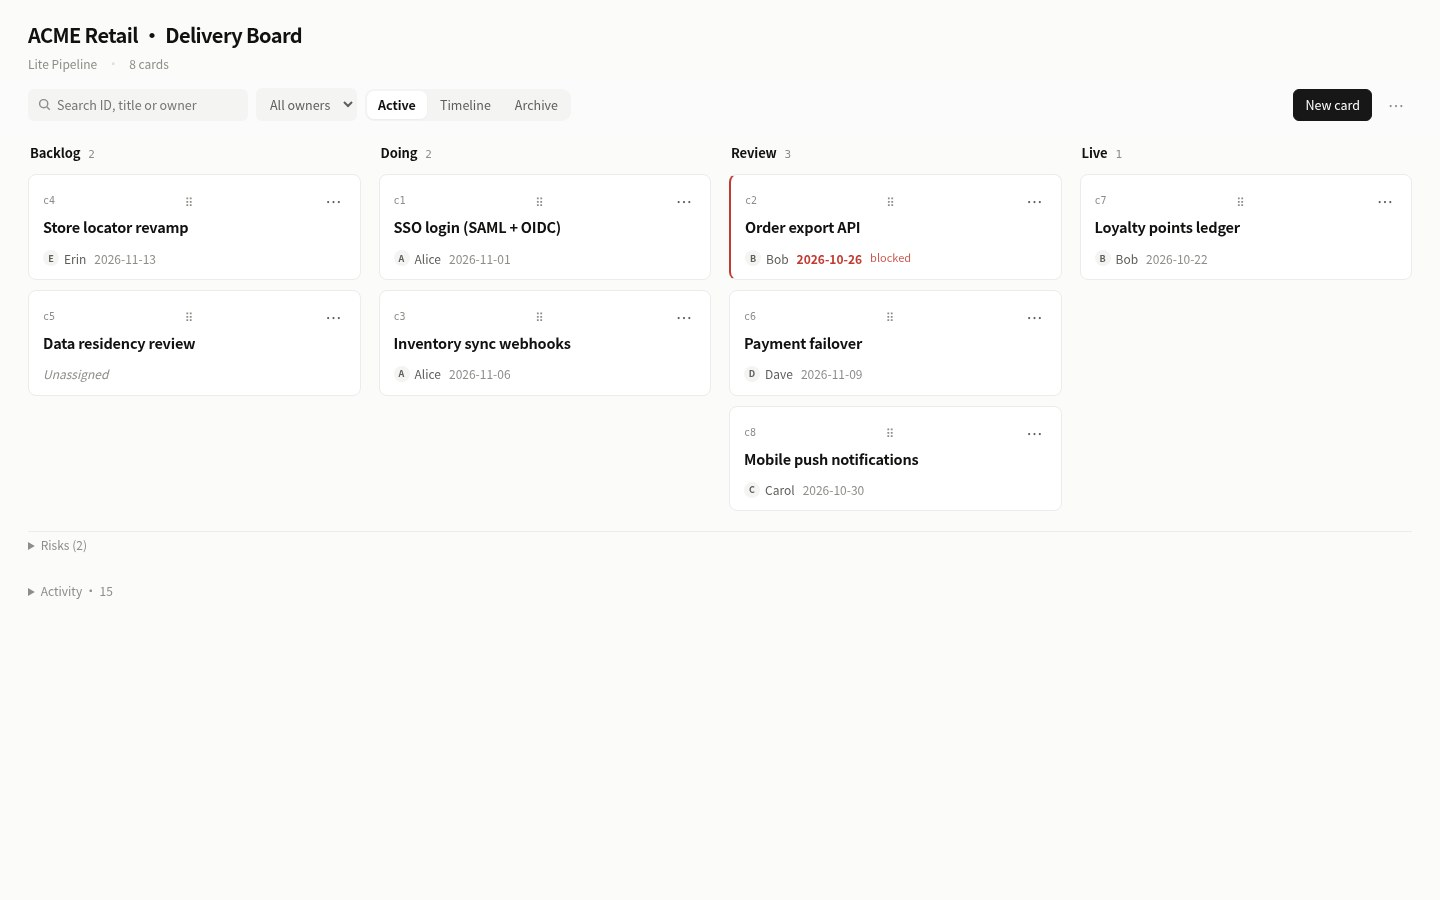
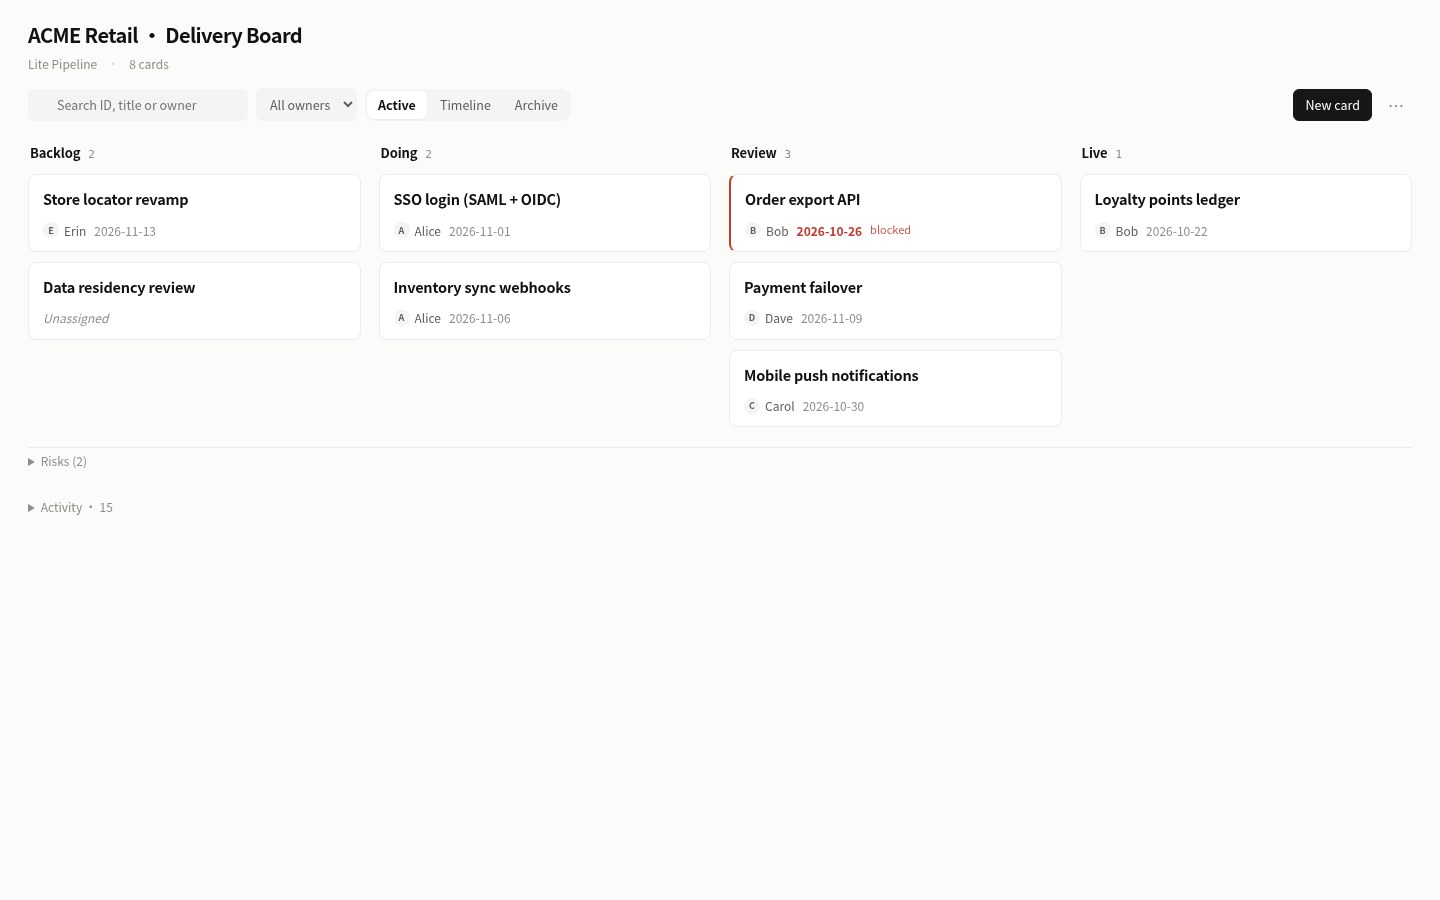
feat: title+meta kanban cards — drop face chrome (v0.2.7)
Cards at rest show only title and meta (owner/due/blocked). Remove the
reserved .card-top strip (cid / drag glyph / menu row). ⋯ is an absolute
hover/focus overlay; grab cursor is the drag affordance. Drop
@media (hover: none) forced chrome so screenshots stay clean. Bundle
formatTimestamp into the client (pre-existing archive/activity fix).

diff --git a/lib/board-html.js b/lib/board-html.js
@@ -1,6 +1,6 @@
 // Same kanban renderer for offline snapshots and the live, local JSON bridge.
 import {
-  escapeHtml, cardMatches, renderCard, renderColumns, renderArchive, renderActivity, renderRisks, renderGateList, renderBoardGates,
+  escapeHtml, formatTimestamp, cardMatches, renderCard, renderColumns, renderArchive, renderActivity, renderRisks, renderGateList, renderBoardGates,
   cardTimeline, renderTimeline,
   resolveBoardLocale, boardStrings, boardUiTables,
 } from './board-view.js'
@@ -22,7 +22,7 @@ export function renderBoardHtml(state, options = {}) {
   // (Node >= 21 also exposes navigator, so the server-side default must not leak into boot).
   const boot = { state, endpoint: options.endpoint ?? '', revision: options.revision ?? '', locale: options.locale ?? null }
   const clientSource = [
-    boardUiTables, resolveBoardLocale, boardStrings, escapeHtml, cardMatches,
+    boardUiTables, resolveBoardLocale, boardStrings, escapeHtml, formatTimestamp, cardMatches,
     renderGateList, renderBoardGates, renderCard, renderColumns, renderArchive, renderActivity, renderRisks, cardTimeline, renderTimeline,
   ].map((fn) => fn.toString()).join('\n')
   const lang = locale.toLowerCase().startsWith('zh') ? 'zh-CN' : 'en'
@@ -129,13 +129,9 @@ export function renderBoardHtml(state, options = {}) {
   .card:focus-within { border-color: var(--border-strong); }
   .card.is-blocked { border-left: 2px solid var(--danger); }
   .card[draggable="true"] { cursor: grab; }
-  .card-top { display: flex; align-items: center; gap: 6px; margin-bottom: 4px; min-height: 18px; }
-  .drag-hint { margin-left: auto; font-size: 12px; color: var(--text-3); user-select: none; opacity: 0; letter-spacing: -1px; }
-  .card:hover .drag-hint, .card:focus-within .drag-hint { opacity: .45; }
-  .card-title { font-size: 14.5px; font-weight: 600; margin: 2px 0 12px; line-height: 1.4; color: var(--text); letter-spacing: -.015em; }
+  .card-title { font-size: 14.5px; font-weight: 600; margin: 0 0 12px; line-height: 1.4; color: var(--text); letter-spacing: -.015em; }
   .card-meta { display: flex; flex-wrap: wrap; gap: 8px; align-items: center; font-size: 12px; color: var(--text-3); }
-  .cid { background: transparent; color: var(--text-3); border: 0; padding: 0; font-family: var(--mono); font-size: 10px; line-height: 16px; opacity: 0; transition: opacity .12s; }
-  .card:hover .cid, .card:focus-within .cid { opacity: .7; }
+  .cid { color: var(--text-3); font-family: var(--mono); font-size: 10px; line-height: 16px; }
   .owner { display: inline-flex; align-items: center; gap: 5px; color: var(--text-2); font-weight: 500; }
   .avatar { width: 16px; height: 16px; border-radius: 50%; background: var(--surface-2); color: var(--text-2); display: inline-grid; place-items: center; font-size: 9px; font-weight: 700; }
   .unassigned { color: var(--text-3); font-style: italic; }
@@ -145,7 +141,7 @@ export function renderBoardHtml(state, options = {}) {
   .overdue { color: var(--danger); font-weight: 600; }
   summary { cursor: pointer; min-height: 18px; border-radius: 4px; }
   summary:hover { color: var(--text); }
-  .card-menu { position: relative; margin: 0 0 0 auto; flex: none; }
+  .card-menu { position: absolute; top: 8px; right: 8px; z-index: 5; margin: 0; }
   .card-menu > summary { list-style: none; width: 24px; height: 24px; display: grid; place-items: center; border-radius: 6px; color: var(--text-2); font-size: 16px; line-height: 1; opacity: 0; cursor: pointer; user-select: none; }
   .card-menu > summary::-webkit-details-marker { display: none; }
   .card:hover .card-menu > summary, .card:focus-within .card-menu > summary, .card-menu[open] > summary { opacity: 1; }
@@ -257,9 +253,6 @@ export function renderBoardHtml(state, options = {}) {
   dialog textarea { min-height: 72px; resize: vertical; }
   .form-actions { display: flex; justify-content: flex-end; gap: 8px; margin-top: 6px; }
   #form-error, #log-form-error { color: var(--danger); font-size: 12px; }
-  @media (hover: none) {
-    .card-menu > summary, .drag-hint, .cid { opacity: 1; }
-  }
   @media (min-width: 1600px) {
     .col { min-width: 240px; }
     .board { gap: 20px; padding: 10px 32px 24px; }
@@ -275,7 +268,7 @@ export function renderBoardHtml(state, options = {}) {
     .tl-grid { --label: 150px; }
   }
   @media (prefers-reduced-motion: reduce) { * { transition: none !important; } }
-  @media print { .toolbar, .card-menu, .drag-hint, .toolbar-more { display: none !important; } body { background: #fff; } }
+  @media print { .toolbar, .card-menu, .toolbar-more { display: none !important; } body { background: #fff; } }
 </style>
 
 </head>

diff --git a/lib/board-view.js b/lib/board-view.js
@@ -27,7 +27,6 @@ export function boardUiTables() {
       edit: 'Edit',
       archiveBtn: 'Archive',
       restoreBtn: 'Restore to original stage',
-      dragHint: 'Drag to move',
       cardMenu: 'Card actions',
       moreMenu: 'More',
       copyHandoff: 'Copy handoff',
@@ -86,7 +85,6 @@ export function boardUiTables() {
       edit: '编辑',
       archiveBtn: '归档',
       restoreBtn: '恢复到原阶段',
-      dragHint: '拖拽移动',
       cardMenu: '卡片操作',
       moreMenu: '更多',
       copyHandoff: '复制交接',
@@ -172,7 +170,7 @@ export function renderCard(card, state, interactive, strings) {
         ? `<details class="card-menu"><summary aria-label="${esc(t.cardMenu ?? 'Card actions')}">⋯</summary><div class="card-menu-panel" role="menu">${copy}</div></details>`
         : ''
   return `<article class="card${archived ? ' archived-card' : ''}${overdue ? ' is-overdue' : ''}${blocker ? ' is-blocked' : ''}" data-card-id="${esc(card.id)}" draggable="${interactive && !archived}" aria-label="${esc(card.id)} ${esc(card.title)}">
-    <div class="card-top"><span class="cid">${esc(card.id)}</span>${interactive && !archived ? `<span class="drag-hint" title="${esc(t.dragHint)}" aria-hidden="true">⠿</span>` : ''}${actions}</div>
+    ${actions}
     <div class="card-title">${esc(card.title)}</div>
     <div class="card-meta">${card.owner ? `<span class="owner"><span class="avatar" aria-hidden="true">${esc(initial)}</span>${esc(card.owner)}</span>` : `<span class="unassigned">${esc(t.unassigned)}</span>`}${card.due ? `<span class="due${overdue ? ' overdue' : ''}">${esc(card.due)}</span>` : ''}${blocker ? `<span class="blocked-meta">${esc(t.blocker)}</span>` : ''}</div>
     ${archived ? `<div class="archive-meta">${esc(state.pipeline[stageIndex]?.name)} · ${esc(t.archivedOn)} ${esc(formatTimestamp(card.archivedAt))}</div>` : ''}

diff --git a/README.md b/README.md
@@ -107,7 +107,9 @@ Command shape matches `/delivery-admin` in the DSH plugin. `open` keeps the proc
 
 `/delivery` = model-led skill (normal day-to-day). `/delivery-admin` = deterministic, no-model escape hatch. Prefer `/delivery` unless you need a scriptable command.
 
-**Quiet premium UI (v0.2.6):** Near-black Linear-like primary (no SaaS purple), flatter 8px hairline cards, Active/Timeline/Archive segments without counts, quiet Saved status, short subtitle (template · N cards), blocked as meta/left hairline, Risks collapsed by default. Dark mode same rules. Zero CDN fonts / no new deps.
+**Title+meta cards (v0.2.7):** Kanban cards at rest show only title and meta (owner/due/blocked) — no reserved ID/drag/⋯ strip. The ⋯ menu is an absolute hover/focus overlay. Cursor grab is the drag affordance; IDs stay in aria/edit/copy. Touch screenshots stay clean (no forced chrome). Zero CDN fonts / no new deps.
+
+**Quiet premium UI (v0.2.6):** Near-black Linear-like primary (no SaaS purple), flatter 8px hairline cards, Active/Timeline/Archive segments without counts, quiet Saved status, short subtitle (template · N cards), blocked as meta/left hairline, Risks collapsed by default.
 
 **Calmer board UI (v0.2.4):** softer palette, thin muted stage accents, roomier cards, AC/DoD as quiet chips, Edit/Archive/Copy behind a ⋯ menu.
 

diff --git a/README.zh.md b/README.zh.md
@@ -109,7 +109,9 @@ dsh plugin --profile web add github:jerryxff26-alt/dsh-delivery-board
 
 `/delivery` = 模型 skill（日常主入口）。`/delivery-admin` = 不经模型的确定性逃生舱。日常优先 `/delivery`。
 
-**安静高端 UI（v0.2.6）：** 近黑 Linear 风主按钮（去掉 SaaS 紫）、更扁的 8px 细边卡片、分段控件仅 Active/Timeline/Archive、保存态只留 Saved、副标题缩短为模板·N cards、阻塞改为 meta/左边线、Risks 默认折叠。深色模式同规则。仍无 CDN 字体、无新依赖。
+**标题+元信息卡片（v0.2.7）：** 看板卡片静止时只显示标题与元信息（负责人/截止/阻塞），不再预留 ID/拖拽/⋯ 顶栏。⋯ 菜单为悬停/聚焦时的绝对浮层；拖拽靠 grab 光标，ID 只留在 aria/编辑/复制。触控截图不再强制露出 chrome。仍无 CDN 字体、无新依赖。
+
+**安静高端 UI（v0.2.6）：** 近黑 Linear 风主按钮（去掉 SaaS 紫）、更扁的 8px 细边卡片、分段控件仅 Active/Timeline/Archive、保存态只留 Saved、副标题缩短为模板·N cards、阻塞改为 meta/左边线、Risks 默认折叠。
 
 **更克制的看板 UI（v0.2.4）：** 更柔和的配色、细而克制的阶段色条、卡片更疏、AC/DoD 默认收成芯片、Edit/Archive/Copy 藏进 ⋯ 菜单。
 
